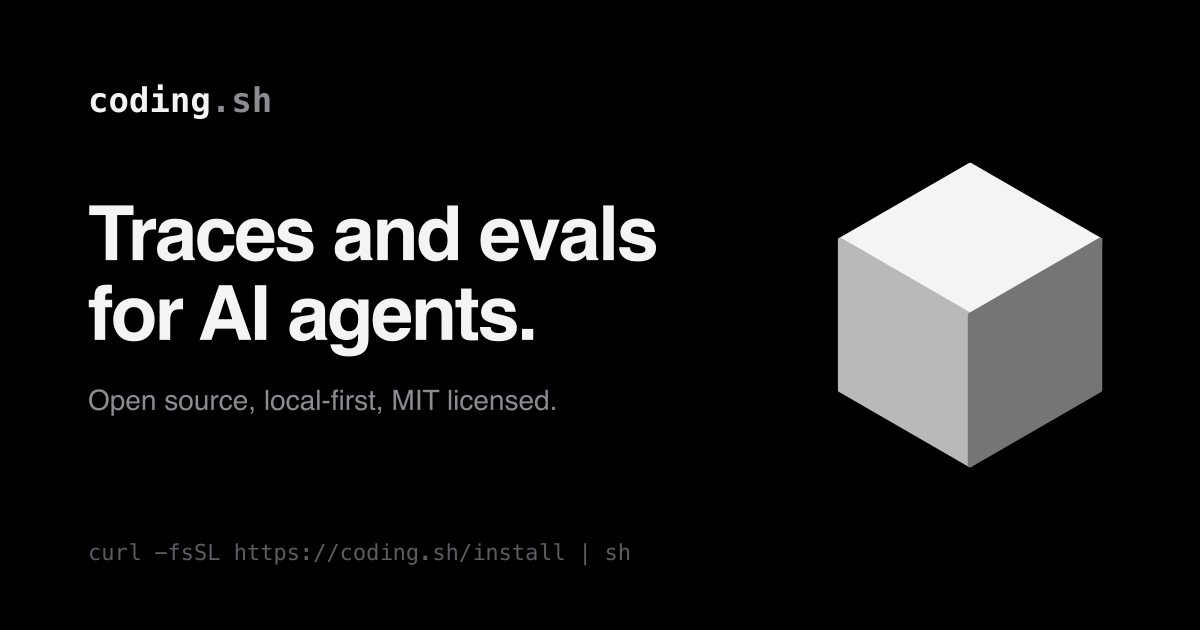
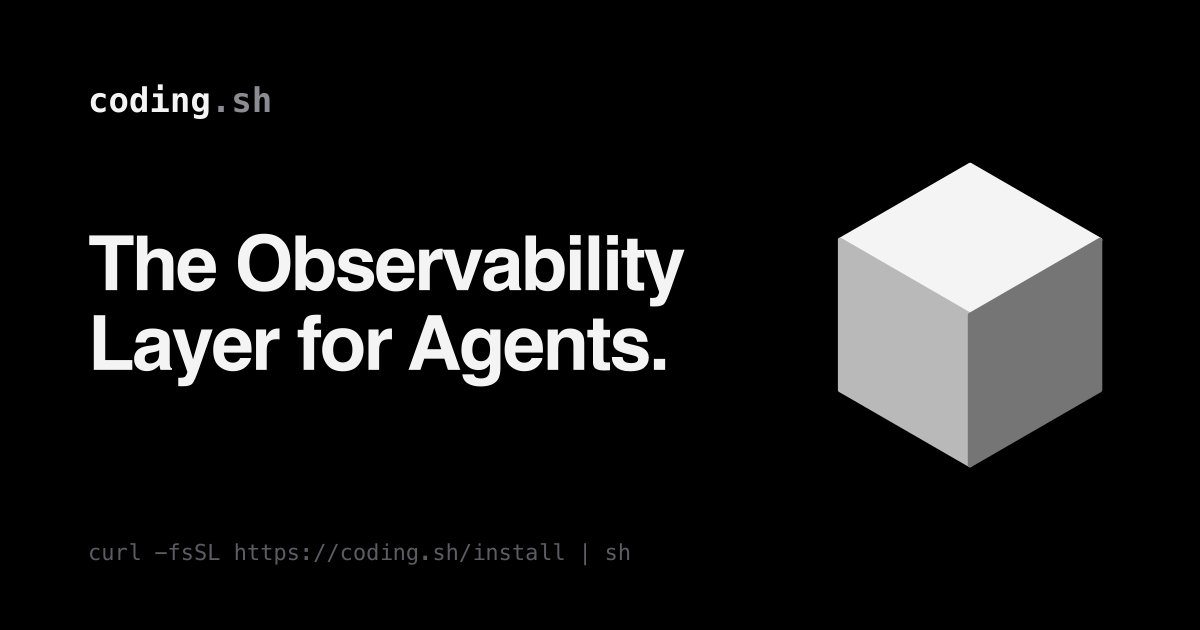
feat(site): the share card has the front page's headline

Changed region(s): [[0.0617, 0.3016, 0.5858, 0.6635]]

diff --git a/CHANGELOG.md b/CHANGELOG.md
@@ -45,6 +45,7 @@ grouped by area, with links to the docs for the details.
 - **Site.** The edge answers moved URLs with permanent redirects, keeps a page prefetched on hover for the click, caches hashed images and search files for a year, compresses the changelog feed, and names the page as canonical on each Markdown copy. [Site speed](https://github.com/jackulau/coding.sh/blob/main/docs/perf.md#font-swap-and-image-sizes)
 - **Agent text.** llms.txt lists the blog and links every CLI command. llms-full.txt leaves out the per-version changelog pages and the per-command CLI pages (647 kB, was 1,046 kB), and each Markdown copy's `updated:` is its page's last change. [llms.txt](https://coding.sh/llms.txt)
 - **Site.** The front page is new: the headline and install command, a moving row of the agents it works with, a diagram of agents feeding one record, three steps to start with a drawing of one session, and four short answers. Its footer lists the docs by section. [coding.sh](https://coding.sh)
+- **Site.** The card shown when a link to coding.sh is shared has the front page's headline. [coding.sh](https://coding.sh)
 
 ### Fixed
 
